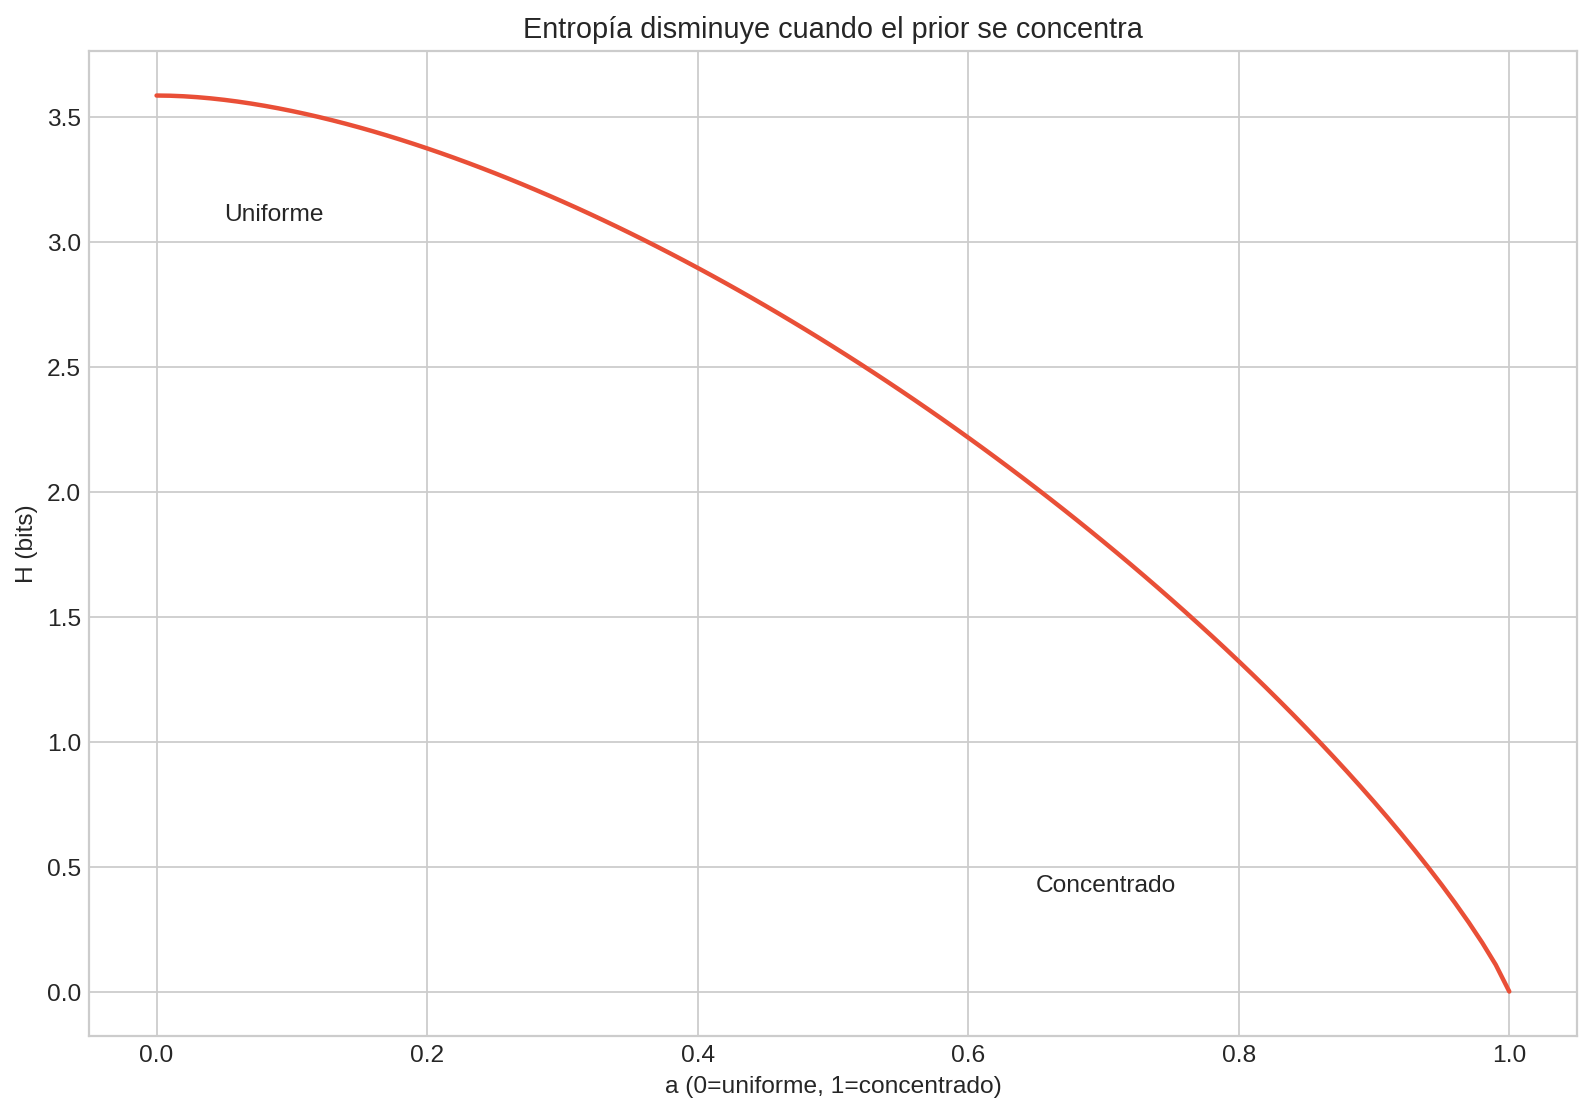
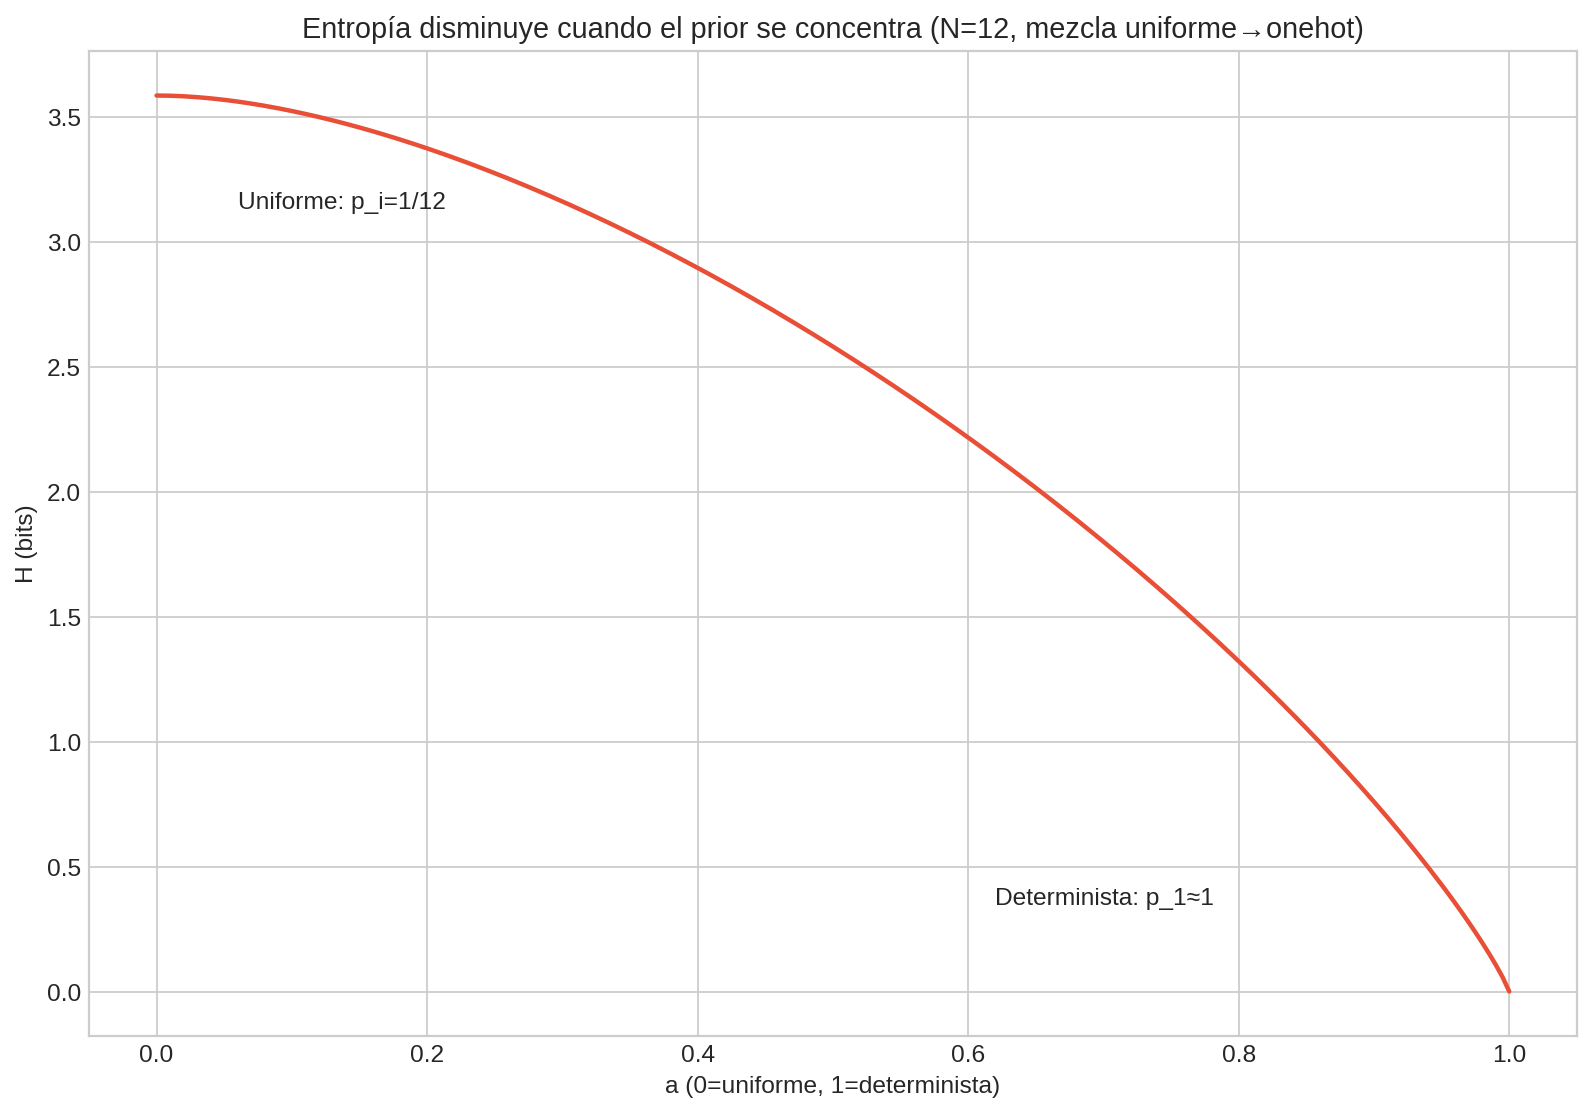
improved plots

diff --git a/clase/06_teoria_de_la_informacion/lab_informacion.py b/clase/06_teoria_de_la_informacion/lab_informacion.py
@@ -300,25 +300,60 @@ def plot_entropy_dirichlet_like():
     We build a family of distributions over N symbols by interpolating
     between uniform and a 'peaked' distribution.
     """
+    # Family A: mix between uniform and one-hot (peaked on a single symbol)
+    #   p_i(a) = (1-a)/N + a * 1{i=1}
+    # This is a clean, controlled path from maximum-entropy (uniform) to minimum (deterministic).
+
+    alphas = np.linspace(0, 1, 201)
+
+    # (1) Multi-scenario plot: different N
+    fig, ax = plt.subplots()
+    for N, color in [(4, COLORS["blue"]), (12, COLORS["red"]), (50, COLORS["green"])]:
+        uniform = np.ones(N) / N
+        peaked = np.zeros(N)
+        peaked[0] = 1.0
+        hs = []
+        for a in alphas:
+            p = (1 - a) * uniform + a * peaked
+            hs.append(entropy_bits(p))
+        ax.plot(alphas, hs, linewidth=2, color=color, label=f"N={N}")
+
+    ax.set_title("Entropía vs concentración (familia p(a) = (1-a)u + a·onehot)")
+    ax.set_xlabel("a (0=uniforme, 1=determinista)")
+    ax.set_ylabel("H (bits)")
+    ax.legend(title="Tamaño del soporte")
+    ax.annotate("Máximo en uniforme", xy=(0.0, math.log(12, 2)), xytext=(0.05, math.log(12, 2) - 0.6))
+    ax.annotate("0 bits cuando a→1", xy=(1.0, 0.0), xytext=(0.62, 0.35))
+    _save(fig, "entropia_concentracion_familias.png")
+
+    # (2) Single-scenario plot (N=12) kept for continuity, but now explicit in the title/caption.
     N = 12
     uniform = np.ones(N) / N
     peaked = np.zeros(N)
     peaked[0] = 1.0
-
-    alphas = np.linspace(0, 1, 101)
-    hs = []
-    for a in alphas:
-        p = (1 - a) * uniform + a * peaked
-        hs.append(entropy_bits(p))
-
+    hs = [entropy_bits((1 - a) * uniform + a * peaked) for a in alphas]
     fig, ax = plt.subplots()
     ax.plot(alphas, hs, color=COLORS["red"], linewidth=2)
-    ax.set_title("Entropía disminuye cuando el prior se concentra")
-    ax.set_xlabel("a (0=uniforme, 1=concentrado)")
+    ax.set_title("Entropía disminuye cuando el prior se concentra (N=12, mezcla uniforme→onehot)")
+    ax.set_xlabel("a (0=uniforme, 1=determinista)")
     ax.set_ylabel("H (bits)")
-    ax.annotate("Uniforme", xy=(0, hs[0]), xytext=(0.05, hs[0] - 0.5))
-    ax.annotate("Concentrado", xy=(1, hs[-1]), xytext=(0.65, hs[-1] + 0.4))
+    ax.annotate("Uniforme: p_i=1/12", xy=(0, hs[0]), xytext=(0.06, hs[0] - 0.45))
+    ax.annotate("Determinista: p_1≈1", xy=(1, hs[-1]), xytext=(0.62, 0.35))
     _save(fig, "entropia_concentracion.png")
+
+    # (3) What do these distributions look like? Show bar charts for selected a.
+    fig, axes = plt.subplots(1, 3, figsize=(14, 4), sharey=True)
+    for ax_i, a in zip(axes, [0.0, 0.6, 0.9]):
+        p = (1 - a) * uniform + a * peaked
+        ax_i.bar(np.arange(1, N + 1), p, color=COLORS["gray"], alpha=0.9)
+        ax_i.set_title(f"N=12, a={a:.1f}")
+        ax_i.set_xlabel("símbolo i")
+        if ax_i is axes[0]:
+            ax_i.set_ylabel("p_i")
+        ax_i.set_ylim(0, 1.0)
+    fig.suptitle("Cómo se ve la concentración: distribuciones p(a) para N=12", y=1.05)
+    plt.tight_layout()
+    _save(fig, "entropia_concentracion_distribuciones.png")
 
 
 # -----------------------------------------------------------------------------

diff --git a/clase/06_teoria_de_la_informacion/04_entropia.md b/clase/06_teoria_de_la_informacion/04_entropia.md
@@ -107,9 +107,34 @@ Lectura operacional:
 
 > Menos entropía = menos bits esperados para descubrir el valor (si haces buenas preguntas/estrategias).
 
-![Entropía vs concentración]({{ '/06_teoria_de_la_informacion/images/entropia_concentracion.png' | url }})
+### ¿De dónde sale la gráfica? (qué distribución se está variando)
 
-*La gráfica muestra cómo $H$ cae cuando pasas de un prior uniforme a uno concentrado. Esto es la intuición “operativa” que usaremos en Wordle/password: si el prior está concentrado, adivinar es más fácil en promedio.*
+Para que la gráfica signifique algo, hay que decir qué familia de distribuciones estamos moviendo.
+
+Usamos una familia muy controlada y explícita: una mezcla entre
+
+- una distribución **uniforme** $u$ sobre $N$ símbolos, y
+- una distribución **determinista** (“one-hot”) que pone toda la masa en un solo símbolo.
+
+Definimos, para $a\\in[0,1]$:
+
+$$
+p(a) \\,=\\, (1-a)\\,u \\,+\\, a\\,\\text{onehot}
+$$
+
+Es decir: cuando $a=0$ tienes máxima incertidumbre (uniforme), y cuando $a\\to 1$ casi todo el peso cae en una sola opción.
+
+![Entropía vs concentración (varios N)]({{ '/06_teoria_de_la_informacion/images/entropia_concentracion_familias.png' | url }})
+
+*En todos los casos se ve lo mismo: al concentrar el prior, la entropía cae. La escala cambia con $N$ porque el máximo posible en uniforme es $H(u)=\\log_2 N$.*
+
+![Cómo se ve la concentración (barras)]({{ '/06_teoria_de_la_informacion/images/entropia_concentracion_distribuciones.png' | url }})
+
+*Estas barras muestran literalmente qué significa “concentrar”: para $a$ grande, una barra domina y las demás son pequeñas.*
+
+![Entropía vs concentración (N=12, mezcla uniforme→onehot)]({{ '/06_teoria_de_la_informacion/images/entropia_concentracion.png' | url }})
+
+*La lectura “operativa” para Wordle/password: si tu prior está concentrado, en promedio necesitas menos bits/preguntas para identificar la respuesta; si es casi uniforme, necesitas más.*
 
 ---
 
